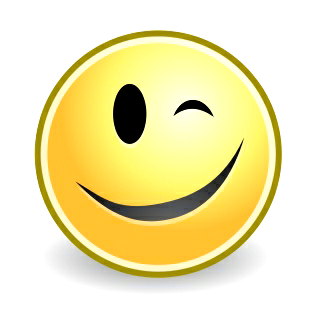
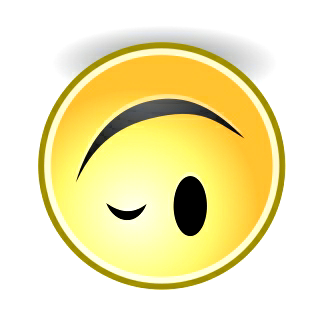
vertical and horizontal flip options were switched (again). patch by Steve Magoun
svn path=/trunk/; revision=387

diff --git a/src/cheese-webcam.c b/src/cheese-webcam.c
@@ -139,8 +139,8 @@ static const EffectToPipelineDesc EFFECT_TO_PIPELINE_DESC [] =
   {CHEESE_WEBCAM_EFFECT_NOIR_BLANC, "videobalance saturation=0", YUV},
   {CHEESE_WEBCAM_EFFECT_SATURATION, "videobalance saturation=2", YUV},
   {CHEESE_WEBCAM_EFFECT_HULK, "videobalance saturation=1.5 hue=-0.5", YUV},
-  {CHEESE_WEBCAM_EFFECT_VERTICAL_FLIP, "videoflip method=4", YUV},
-  {CHEESE_WEBCAM_EFFECT_HORIZONTAL_FLIP, "videoflip method=5", YUV},
+  {CHEESE_WEBCAM_EFFECT_VERTICAL_FLIP, "videoflip method=5", YUV},
+  {CHEESE_WEBCAM_EFFECT_HORIZONTAL_FLIP, "videoflip method=4", YUV},
   {CHEESE_WEBCAM_EFFECT_SHAGADELIC, "shagadelictv", RGB},
   {CHEESE_WEBCAM_EFFECT_VERTIGO, "vertigotv", RGB},
   {CHEESE_WEBCAM_EFFECT_EDGE, "edgetv", RGB},
